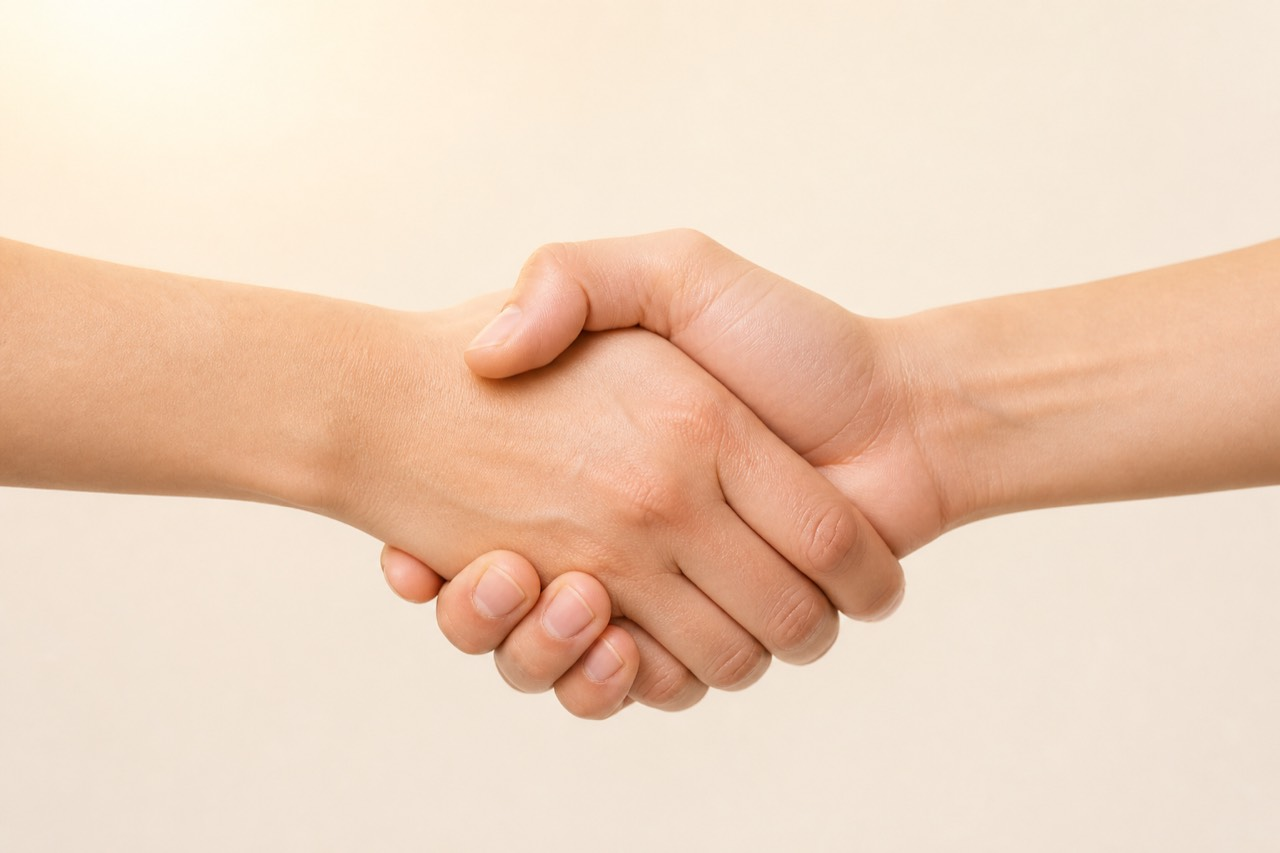
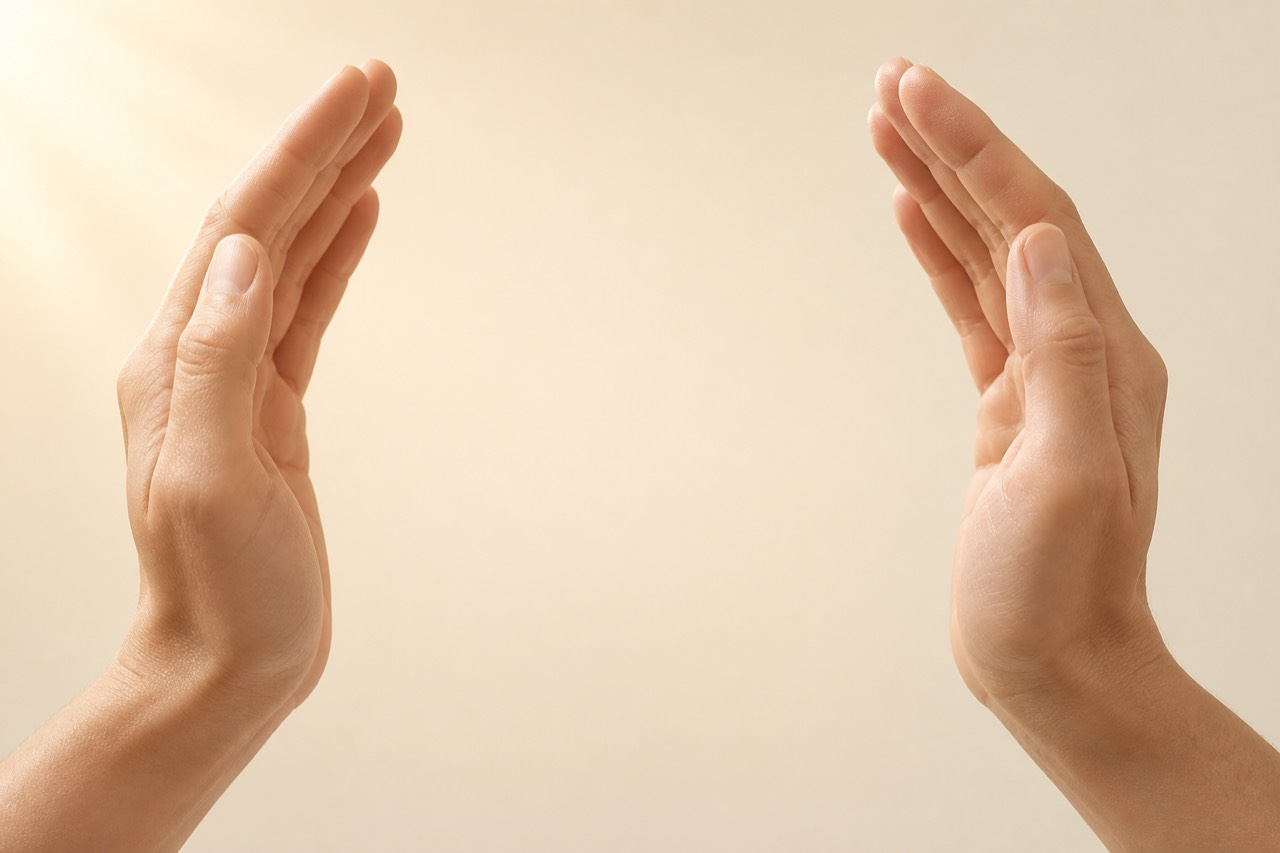
feat(web): 손 이미지 시퀀스 20장 반영
- gpt-image-bridge로 20장 생성(호출 24회, 예산 26회 이내)
- sips로 1280px·JPEG 품질 70 변환 → 합계 1.6MB (상한 6MB)
- 08~10 재생성분 반영, 13~20 신규
- ADR 용어 해설 병기 (04번 §6 영문 용어 표기 규칙)
- .gitignore는 main 상태로 되돌리고 원본 무시는 .git/info/exclude로 이동 (05번 §4 범위 준수)

Claude-Session: https://claude.ai/code/session_017PpvwQjNM6VmAjqDQ61TR6

diff --git a/web/i18n.js b/web/i18n.js
@@ -122,7 +122,7 @@ window.COPY = {
     "s7.r5svc": "릴리즈 노트",
     "s7.r5res": "선행연구·연구노트",
     "s7.r5ofc": "회의록·결재 이력",
-    "s7.r5sw": "이슈 트래커·ADR",
+    "s7.r5sw": "이슈 트래커 · ADR(설계 결정 기록)",
     "s7.close": "문서 이름이 아니라 역할로 판단하므로, PRD/SRS가 없어도 됩니다.",
     "s7.bridge": "그래서 세션이 끝나면 무엇이 남을까요?",
 
@@ -266,7 +266,7 @@ window.COPY = {
     "s7.r5svc": "Release notes",
     "s7.r5res": "Prior work · lab notes",
     "s7.r5ofc": "Minutes · approval history",
-    "s7.r5sw": "Issue tracker · ADRs",
+    "s7.r5sw": "Issue tracker · ADRs (architecture decision records)",
     "s7.close": "Because the judgment is on role rather than document name, a PRD or SRS is not required.",
     "s7.bridge": "So what is left once the session ends?",
 

diff --git a/docs/loop/DECISION_LOG.md b/docs/loop/DECISION_LOG.md
@@ -3,8 +3,8 @@
 `usage-example/04-GRIP-UPDATED-WEBPAGE-PLAN.md`에 확정되어 있지 않은 추가 결정만 기록한다.
 분류 기준: CORE = 구조·기술 선택 또는 04번 확정 사항과 어긋나는 판단 / MINOR = 네이밍·클래스명·여백값·프레임 프롬프트 문구.
 
-CORE: 1
-MINOR: 9
+CORE: 2
+MINOR: 10
 
 ---
 
@@ -43,6 +43,8 @@ MINOR: 9
 
 - **M-9 08~10 프레임 문구 교정** — 최초 문구의 "closing together into a grip / clasped"가 **악수(handshake)** 장면으로 렌더링되어 "양손이 가운데의 내용을 움켜쥔다"는 은유가 깨졌다(08·09·10 세 장). 공통 스타일 블록에 "두 손은 악수하지 않으며 서로를 쥐지 않는다 — 가운데의 빈 공간을 감싸 쥔다"를 추가하고, 동작 문구를 cupping 계열로 바꿔 세 장을 재생성했다. 같은 이유로 13~20의 "clasped"도 "cupped"로 바꿨다. 01~07·11·12는 의도대로 나와 그대로 쓴다. (`tools/gen-hand-fix.sh`)
 
+- **M-10 손 프레임 원본을 `.git/info/exclude`로 무시** — 원본 PNG 20장(33MB)을 커밋하지 않으려면 무시 규칙이 필요한데, 루트 `.gitignore`는 05번 §4가 정한 수정 허용 범위(`web/`·`docs/loop/`·`tools/`) 밖이다. 저장소 파일을 건드리지 않도록 규칙을 로컬 전용 `.git/info/exclude`에 두고 `.gitignore`는 main 상태로 되돌렸다. 원본을 공유 저장소 차원에서 영구히 무시하려면 사용자가 `.gitignore`에 `tools/hand-src/` 한 줄을 추가하면 된다.
+
 ---
 
 ## CORE
@@ -54,3 +56,11 @@ MINOR: 9
   ```
 
   `usage-example/**`는 05번 §4에서 수정 금지이므로 05번 문서 자체는 고치지 않고, 교정 사실을 여기에 남긴다. 통과시키려고 기대값을 낮춘 것이 아니라(여전히 2를 요구한다), 같은 의도를 정확히 재는 패턴으로 바꾼 것이다.
+
+- **C-2 계측 검증 패턴을 도메인 기준으로 좁힘** — 05번 §3 종료 방법 8번의 `plausible` 토큰이 계측 도구(Plausible Analytics)가 아니라 **영문 카피의 형용사 "plausible-looking"** 두 곳에 걸렸다. 해당 문장은 05번 §2가 지정한 영문 원천 `README.en.md` 12행에서 그대로 옮긴 표현이라, 검사를 통과시키려고 카피를 비틀면 원천 충실성이 깎인다. 검사 의도(계측 스크립트 부재)는 그대로 두고 토큰만 도메인 형태로 좁힌다.
+
+  ```bash
+  grep -rniE 'gtag|google-analytics|plausible\.io|umami|mixpanel|hotjar' web/ | wc -l   # 기대: 0
+  ```
+
+  나머지 벤더 토큰은 손대지 않았고, 별도로 `web/`의 모든 `<script src>`가 로컬 파일 3개뿐임을 함께 확인한다.
